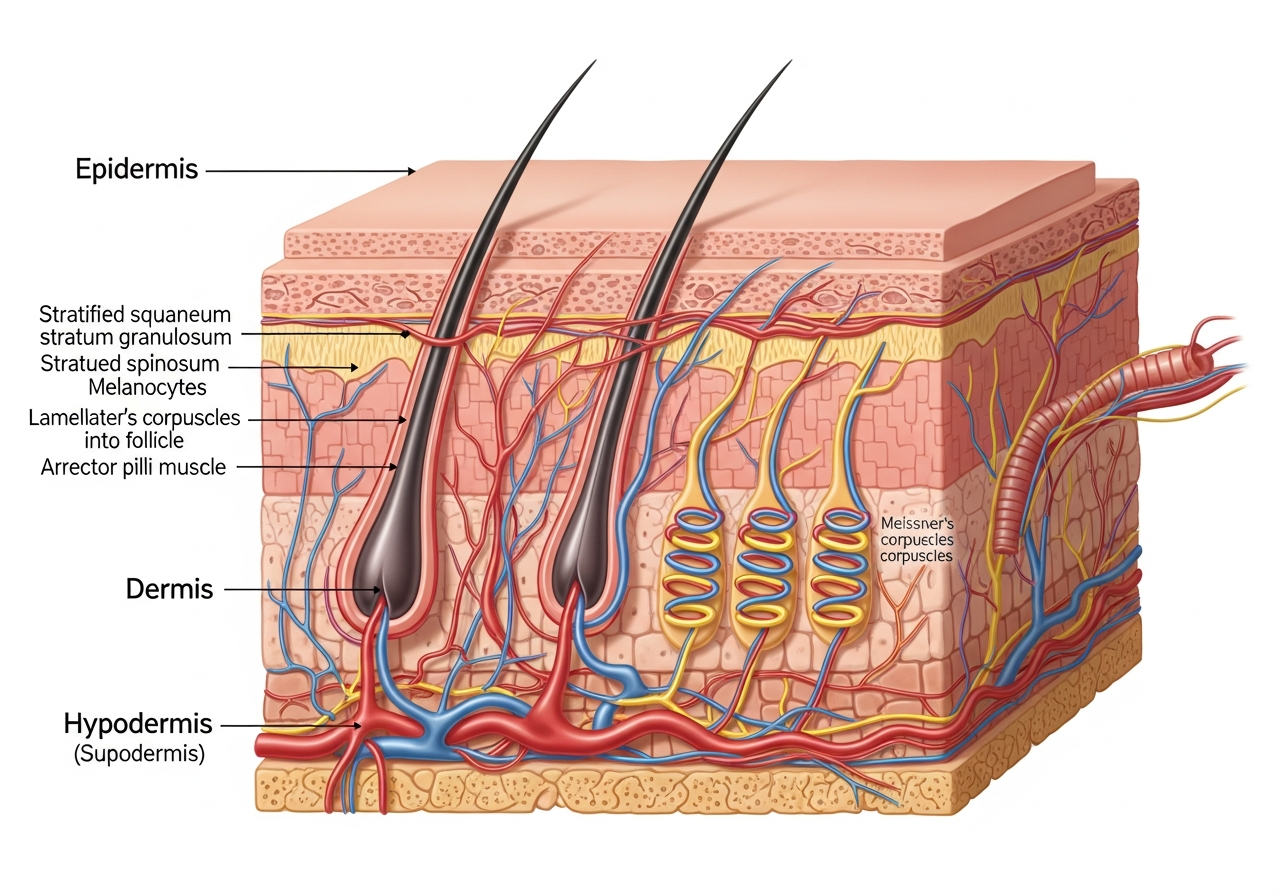
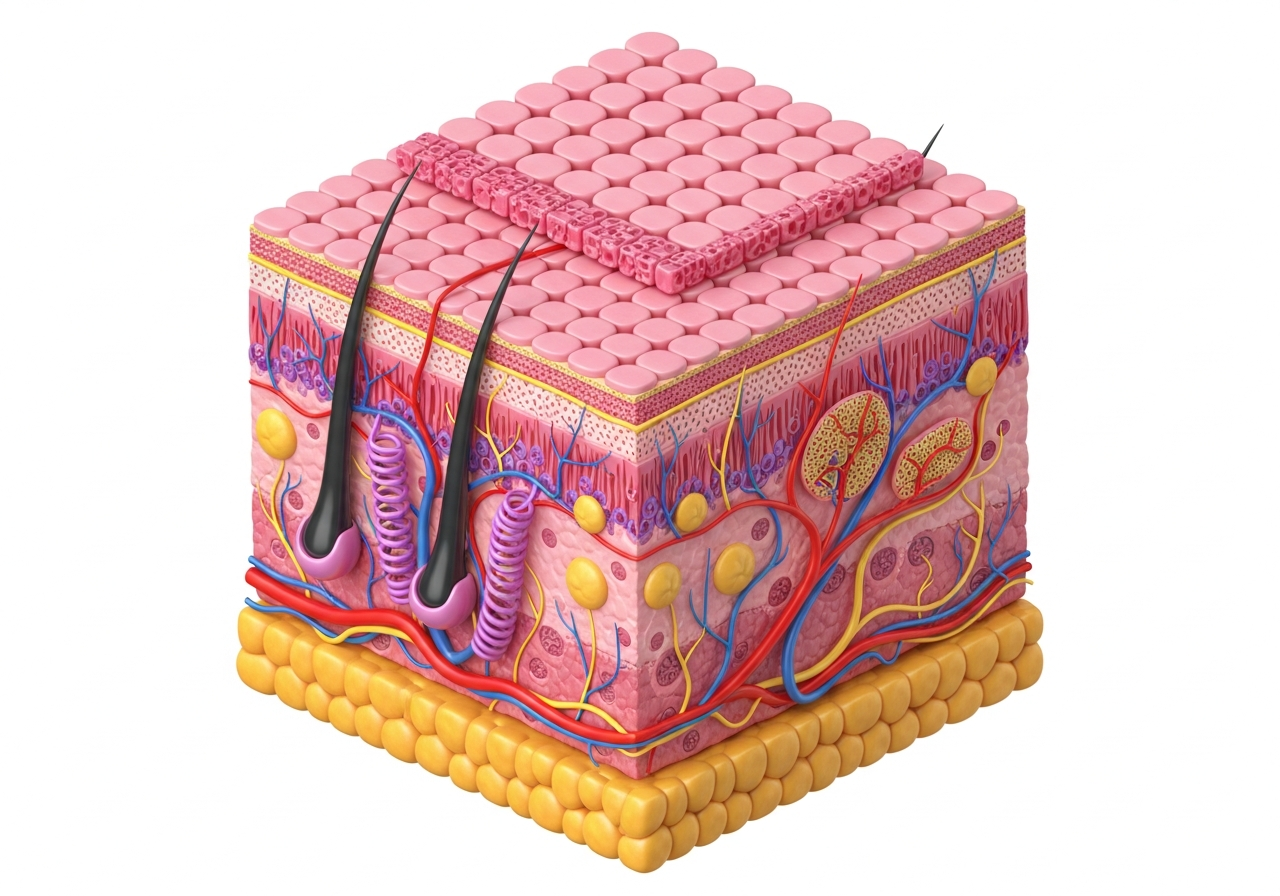
Update integumentary system images and labels to remove all text
Regenerated integumentary system main and hotspot images to be text-free. Updated `integumentaryLabels` in `anatomy-diagrams.tsx` to reflect new image coordinates and remove descriptive text from labels.

Replit-Commit-Author: Agent
Replit-Commit-Session-Id: 1f5a5545-029d-40b9-9ad8-7a900e9af9ff
Replit-Commit-Checkpoint-Type: full_checkpoint
Replit-Commit-Event-Id: 358c6c13-c5fb-4170-9ee7-4a65082dc5b9
Replit-Commit-Screenshot-Url: https://storage.googleapis.com/screenshot-production-us-central1/ab7af924-d140-4809-b680-61e38d9b6f0e/1f5a5545-029d-40b9-9ad8-7a900e9af9ff/xmr6Enz
Replit-Helium-Checkpoint-Created: true

diff --git a/client/src/components/anatomy-diagrams.tsx b/client/src/components/anatomy-diagrams.tsx
@@ -418,15 +418,15 @@ export const musculoskeletalLabels: LabelPoint[] = [
 ];
 
 export const integumentaryLabels: LabelPoint[] = [
-  { id: "epidermis", x: 300, y: 50, label: "Epidermis", hint: "Outermost skin layer; stratified squamous epithelium; contains keratinocytes, melanocytes, Langerhans cells; avascular — receives nutrients from dermis" },
-  { id: "dermis", x: 300, y: 160, label: "Dermis", hint: "Middle layer with collagen/elastin fibers; contains blood vessels, nerves, hair follicles, sweat glands; papillary and reticular layers" },
-  { id: "hypodermis", x: 300, y: 320, label: "Hypodermis", hint: "Subcutaneous layer; adipose tissue for insulation and energy storage; subcutaneous injection site; anchors skin to underlying fascia" },
-  { id: "hair-follicle", x: 180, y: 130, label: "Hair Follicle", hint: "Invagination of epidermis into dermis; arrector pili muscle causes goosebumps; sebaceous gland opens into follicle" },
-  { id: "sweat-gland", x: 450, y: 250, label: "Sweat Gland (Eccrine)", hint: "Coiled gland in dermis; thermoregulation via evaporative cooling; most numerous on palms, soles, forehead; produces hypotonic sweat" },
-  { id: "sebaceous", x: 150, y: 200, label: "Sebaceous Gland", hint: "Produces sebum (oily secretion); lubricates hair and skin; holocrine secretion; overactivity contributes to acne" },
-  { id: "nerve-ending", x: 420, y: 130, label: "Nerve Endings", hint: "Meissner's corpuscles (light touch), Pacinian corpuscles (deep pressure), free nerve endings (pain/temperature); dermatome distribution" },
-  { id: "blood-vessel", x: 450, y: 170, label: "Blood Vessels", hint: "Dermal plexus supplies nutrients; arterioles regulate skin temperature; vasodilation causes flushing, vasoconstriction causes pallor" },
-  { id: "stratum-corneum", x: 150, y: 30, label: "Stratum Corneum", hint: "Outermost epidermal layer; 15-30 layers of dead keratinized cells; primary barrier against pathogens and water loss" },
+  { id: "epidermis", x: 350, y: 75, label: "Epidermis", hint: "Outermost skin layer; stratified squamous epithelium; contains keratinocytes, melanocytes, Langerhans cells; avascular — receives nutrients from dermis" },
+  { id: "dermis", x: 150, y: 190, label: "Dermis", hint: "Middle layer with collagen/elastin fibers; contains blood vessels, nerves, hair follicles, sweat glands; papillary and reticular layers" },
+  { id: "hypodermis", x: 350, y: 340, label: "Hypodermis", hint: "Subcutaneous layer; adipose tissue for insulation and energy storage; subcutaneous injection site; anchors skin to underlying fascia" },
+  { id: "hair-follicle", x: 240, y: 170, label: "Hair Follicle", hint: "Invagination of epidermis into dermis; arrector pili muscle causes goosebumps; sebaceous gland opens into follicle" },
+  { id: "sweat-gland", x: 130, y: 240, label: "Sweat Gland (Eccrine)", hint: "Coiled gland in dermis; thermoregulation via evaporative cooling; most numerous on palms, soles, forehead; produces hypotonic sweat" },
+  { id: "sebaceous", x: 430, y: 200, label: "Sebaceous Gland", hint: "Produces sebum (oily secretion); lubricates hair and skin; holocrine secretion; overactivity contributes to acne" },
+  { id: "blood-vessel", x: 300, y: 310, label: "Blood Vessels", hint: "Dermal plexus supplies nutrients; arterioles regulate skin temperature; vasodilation causes flushing, vasoconstriction causes pallor" },
+  { id: "stratum-corneum", x: 200, y: 50, label: "Stratum Corneum", hint: "Outermost epidermal layer; 15-30 layers of dead keratinized cells; primary barrier against pathogens and water loss" },
+  { id: "adipose", x: 200, y: 360, label: "Adipose Tissue", hint: "Fat cells in hypodermis; energy storage, insulation, cushioning; subcutaneous fat distribution varies by sex and age" },
 ];
 
 export const lymphaticLabels: LabelPoint[] = [
